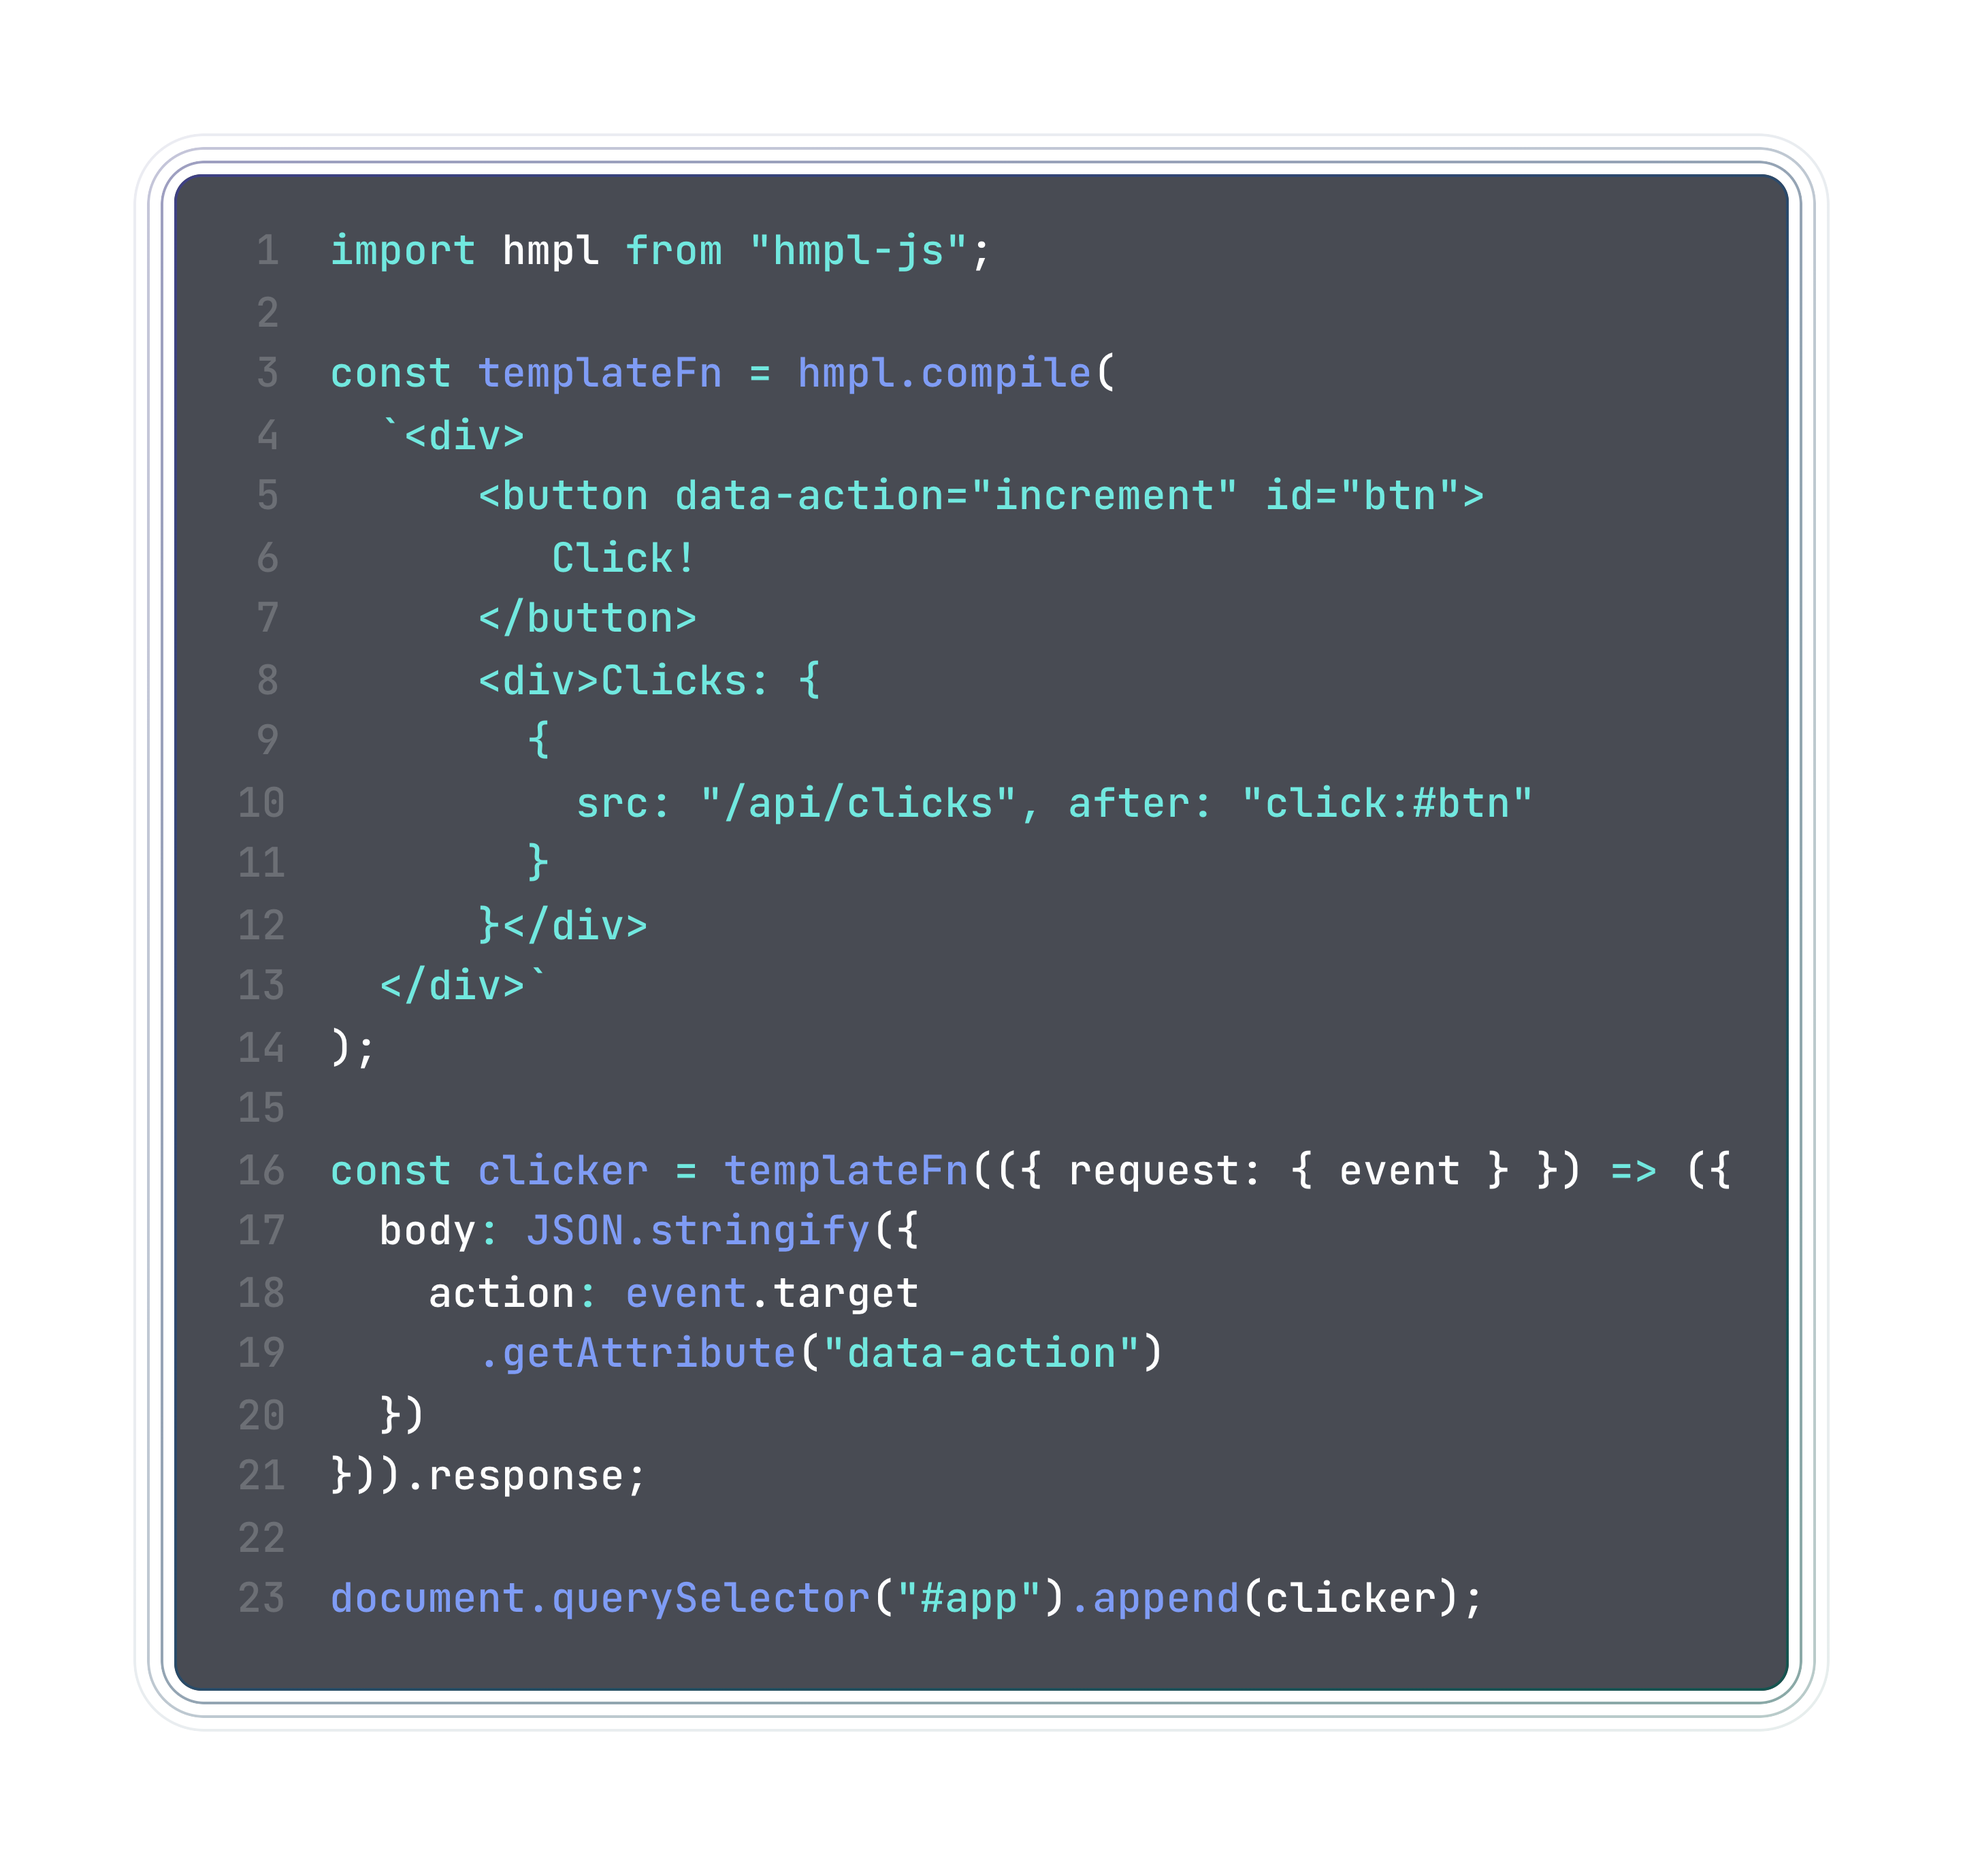
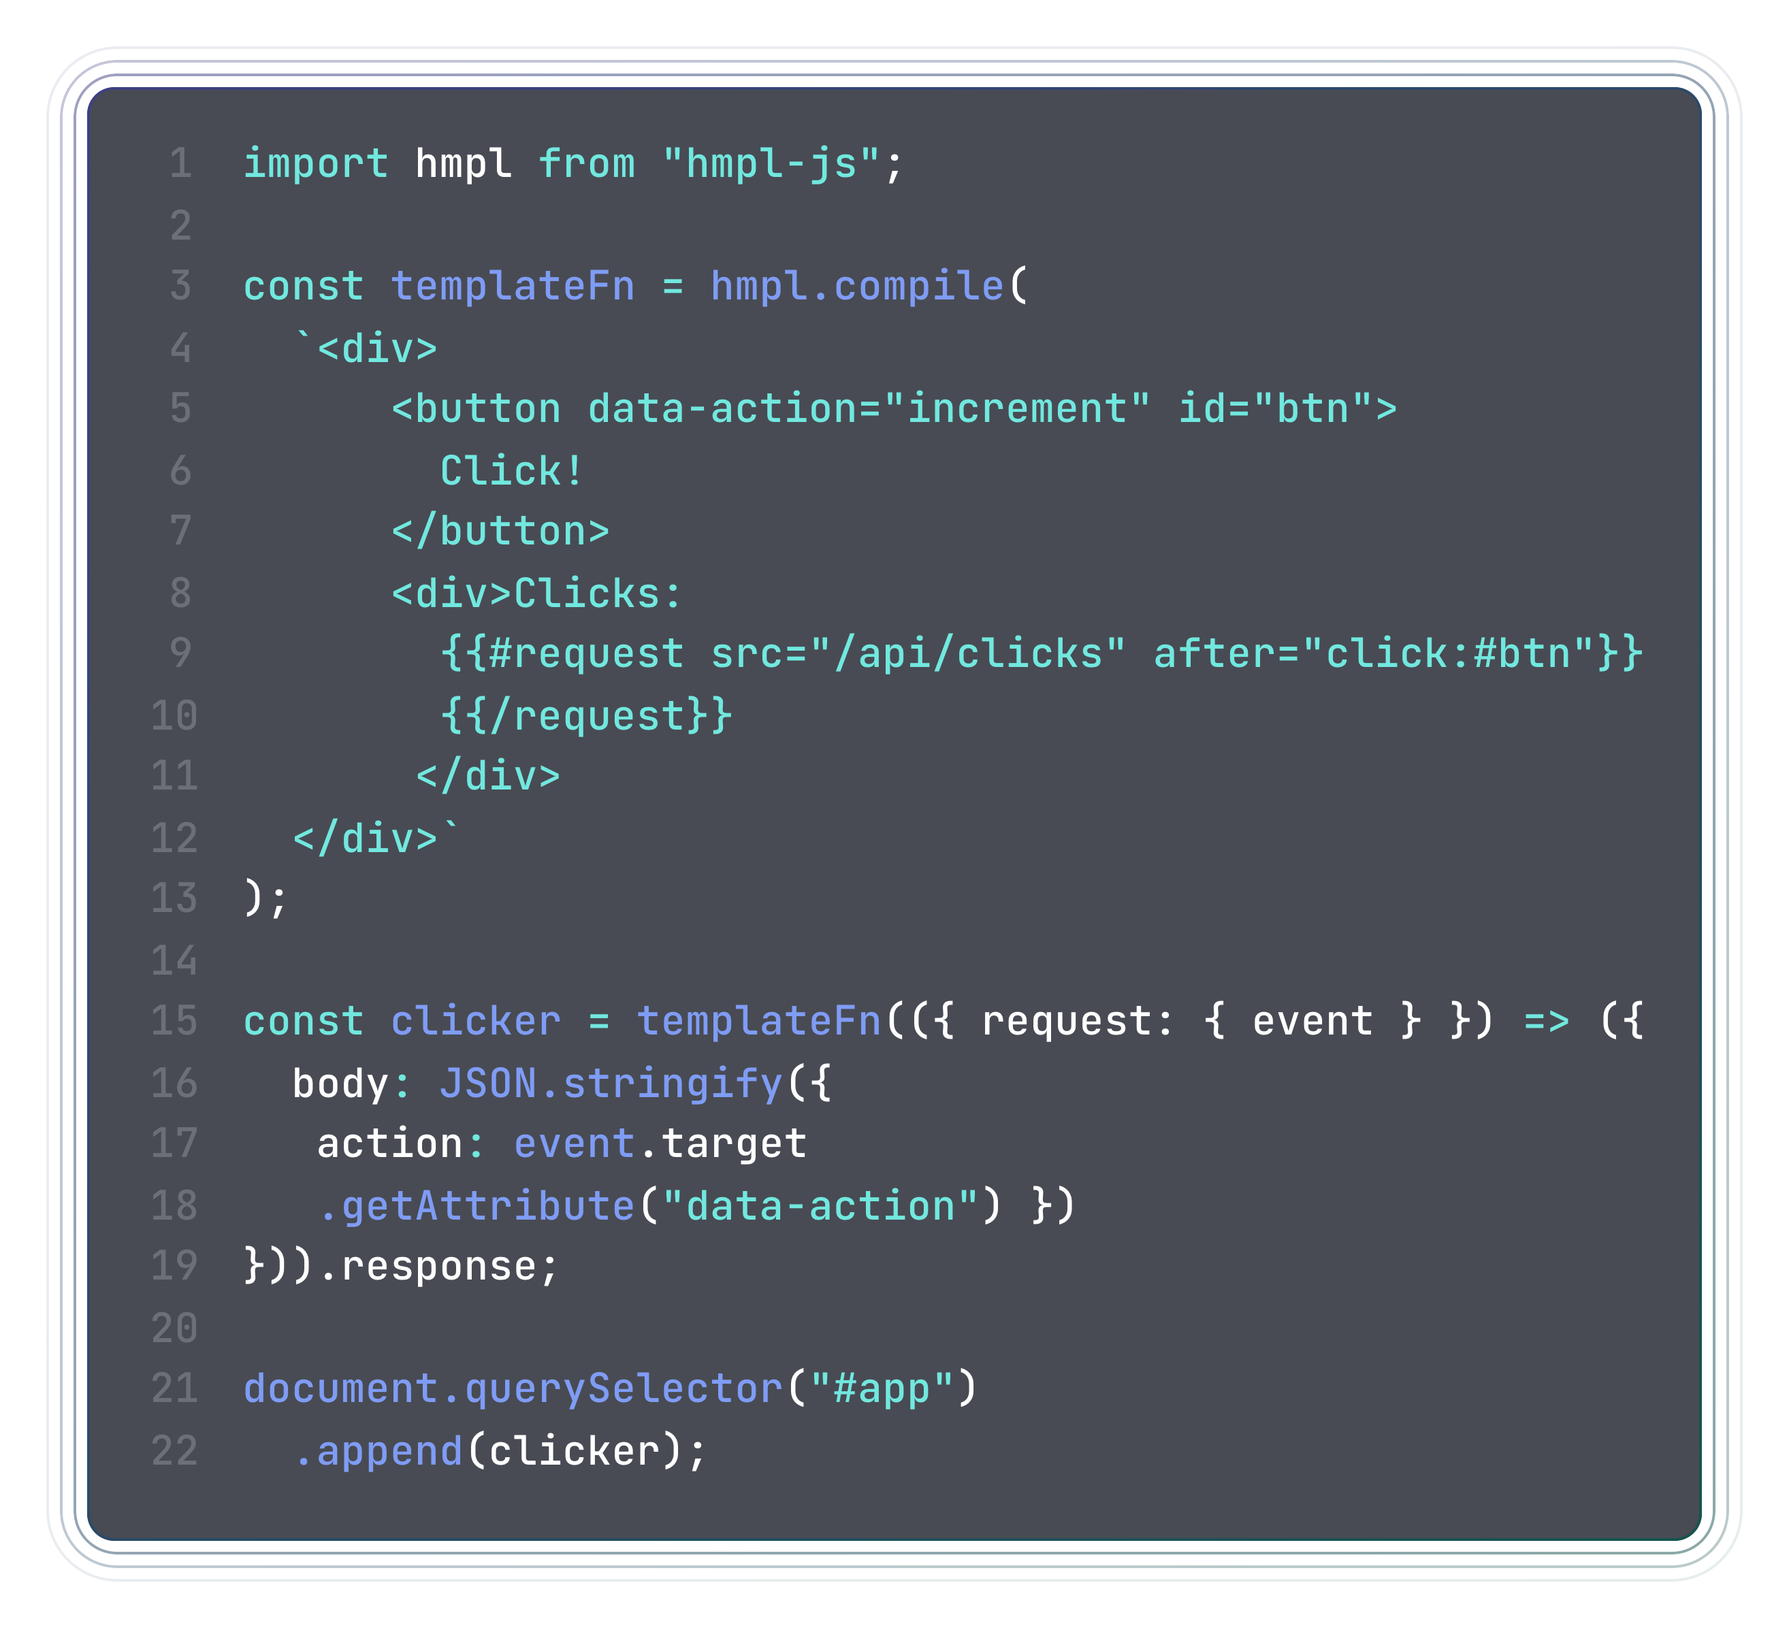
Copied changes from hmpl/app

Changed region(s): [[0.0312, 0.0309, 0.9673, 0.959]]

diff --git a/docs/.vuepress/config.ts b/docs/.vuepress/config.ts
@@ -114,7 +114,11 @@ export default defineUserConfig({
             {
               text: "Server-side rendering",
               link: "server-side-rendering.md"
-            }
+            },
+            {
+              text: "Migration from v2 to v3 version",
+              link: "migration-from-v2-to-v3-version.md"
+            },
           ]
         },
         {

diff --git a/docs/.vuepress/layouts/HomePage.vue b/docs/.vuepress/layouts/HomePage.vue
@@ -394,7 +394,7 @@
               <a
                 class="item-link"
                 href="https://bundlephobia.com/package/hmpl-js"
-                >~15 kilobytes</a
+                >~22 kilobytes</a
               >
             </p>
           </div>

diff --git a/docs/about/migration-from-v2-to-v3-version.md b/docs/about/migration-from-v2-to-v3-version.md
@@ -1,0 +1,60 @@
+# Migrating from HMPL v2 to v3
+
+HMPL v3 introduces a **simpler, safer, and more flexible request configuration syntax**.  
+This guide explains the key differences and how to update your existing templates.
+
+
+## What Changed
+
+In **HMPL v2**, request configuration blocks used JSON-like objects inside `{{ }}`:
+
+```html
+{{src:"/api/test" method:"GET"}}
+
+```
+
+In HMPL v3, configurations are moved into block syntax with key=value pairs, using either `{{#request}}` or the short form `{{#r}}`:
+
+
+```html
+{{#request src="/api/test" method="GET"}}{{/request}}
+```
+
+## Key Improvements in v3
+
+- Cleaner syntax — no need for colons : or enclosing in {}.
+
+- Standardized blocks — uses `{{#request ...}} ... {{/request}}` or `{{#r ...}} ... {{/r}}`.
+
+- Supports nested values — arrays [] and objects {} inside key=value.
+
+- No unpaired curly braces — prevents hard-to-debug template errors.
+
+- Better parsing & validation — safer integration with your HTML markup.
+
+## Migration Example
+
+Before (v2):
+
+```html
+<div>
+  {{src:"/api/count" after:"click:#btn"}}
+</div>
+```
+
+After (v3):
+
+```html
+<div>
+  {{#request src="/api/count" after="click:#btn"}}{{/request}}
+</div>
+```
+
+You can also use the short form `{{#r}}`.
+
+# Done!
+After migrating, your templates will be cleaner, safer, and fully compatible with HMPL v3.
+
+
+
+

diff --git a/docs/examples.md b/docs/examples.md
@@ -19,7 +19,7 @@ import { compile } from "hmpl-js";
 const templateFn = compile(
   `<div>
     <button class="getHTML">Get HTML!</button>
-    {{#request
+    { {#request
       src="/api/test"
       after="click:.getHTML"
       repeat=false
@@ -81,7 +81,7 @@ const templateFn = compile(
     </div>
   </form>
   <p>
-    {{#request
+    { {#request
       src="/api/register"
       after="submit:#form"
       repeat=false
@@ -171,7 +171,7 @@ const templateFn = compile(
         <td>Lays</td>
         <td>4</td>
       </tr>
-      {{#request
+      { {#request
         src="/api/products"
         after="submit:#form"
         autoBody=true

diff --git a/docs/getting-started.md b/docs/getting-started.md
@@ -35,7 +35,7 @@ Create a file named `HelloWorld.hmpl` inside `/src/hmpl` and add the following c
 ```hmpl
 <div>
   <div>
-    {{#request
+    { {#request
       src="/api/hello"
       after="submit:#form"
       repeat=false
@@ -91,7 +91,7 @@ Create a new file `Form.hmpl` inside the `hmpl` directory and add the following 
     <input type="submit" value="Submit" />
   </form>
 
-  {{#request
+  { {#request
     src="/api/hello"
     after="submit:#form"
     repeat=false

diff --git a/docs/changelog.md b/docs/changelog.md
@@ -1,5 +1,12 @@
 # Changelog
 
+## 3.0.0 (2025-04-20)
+
+- Changed syntax to `{{#request}}`
+- Added interval for sending requests
+- Changed error handling
+- Bug fixes
+
 ## 2.2.6 (2025-03-09)
 
 - Updating README.md

diff --git a/docs/introduction.md b/docs/introduction.md
@@ -64,7 +64,7 @@ const templateFn = compile(
     </div>
   </form>
   <p>
-    {{#request         
+    { {#request         
       src="/api/register"
       after="submit:#form"
       repeat=false
